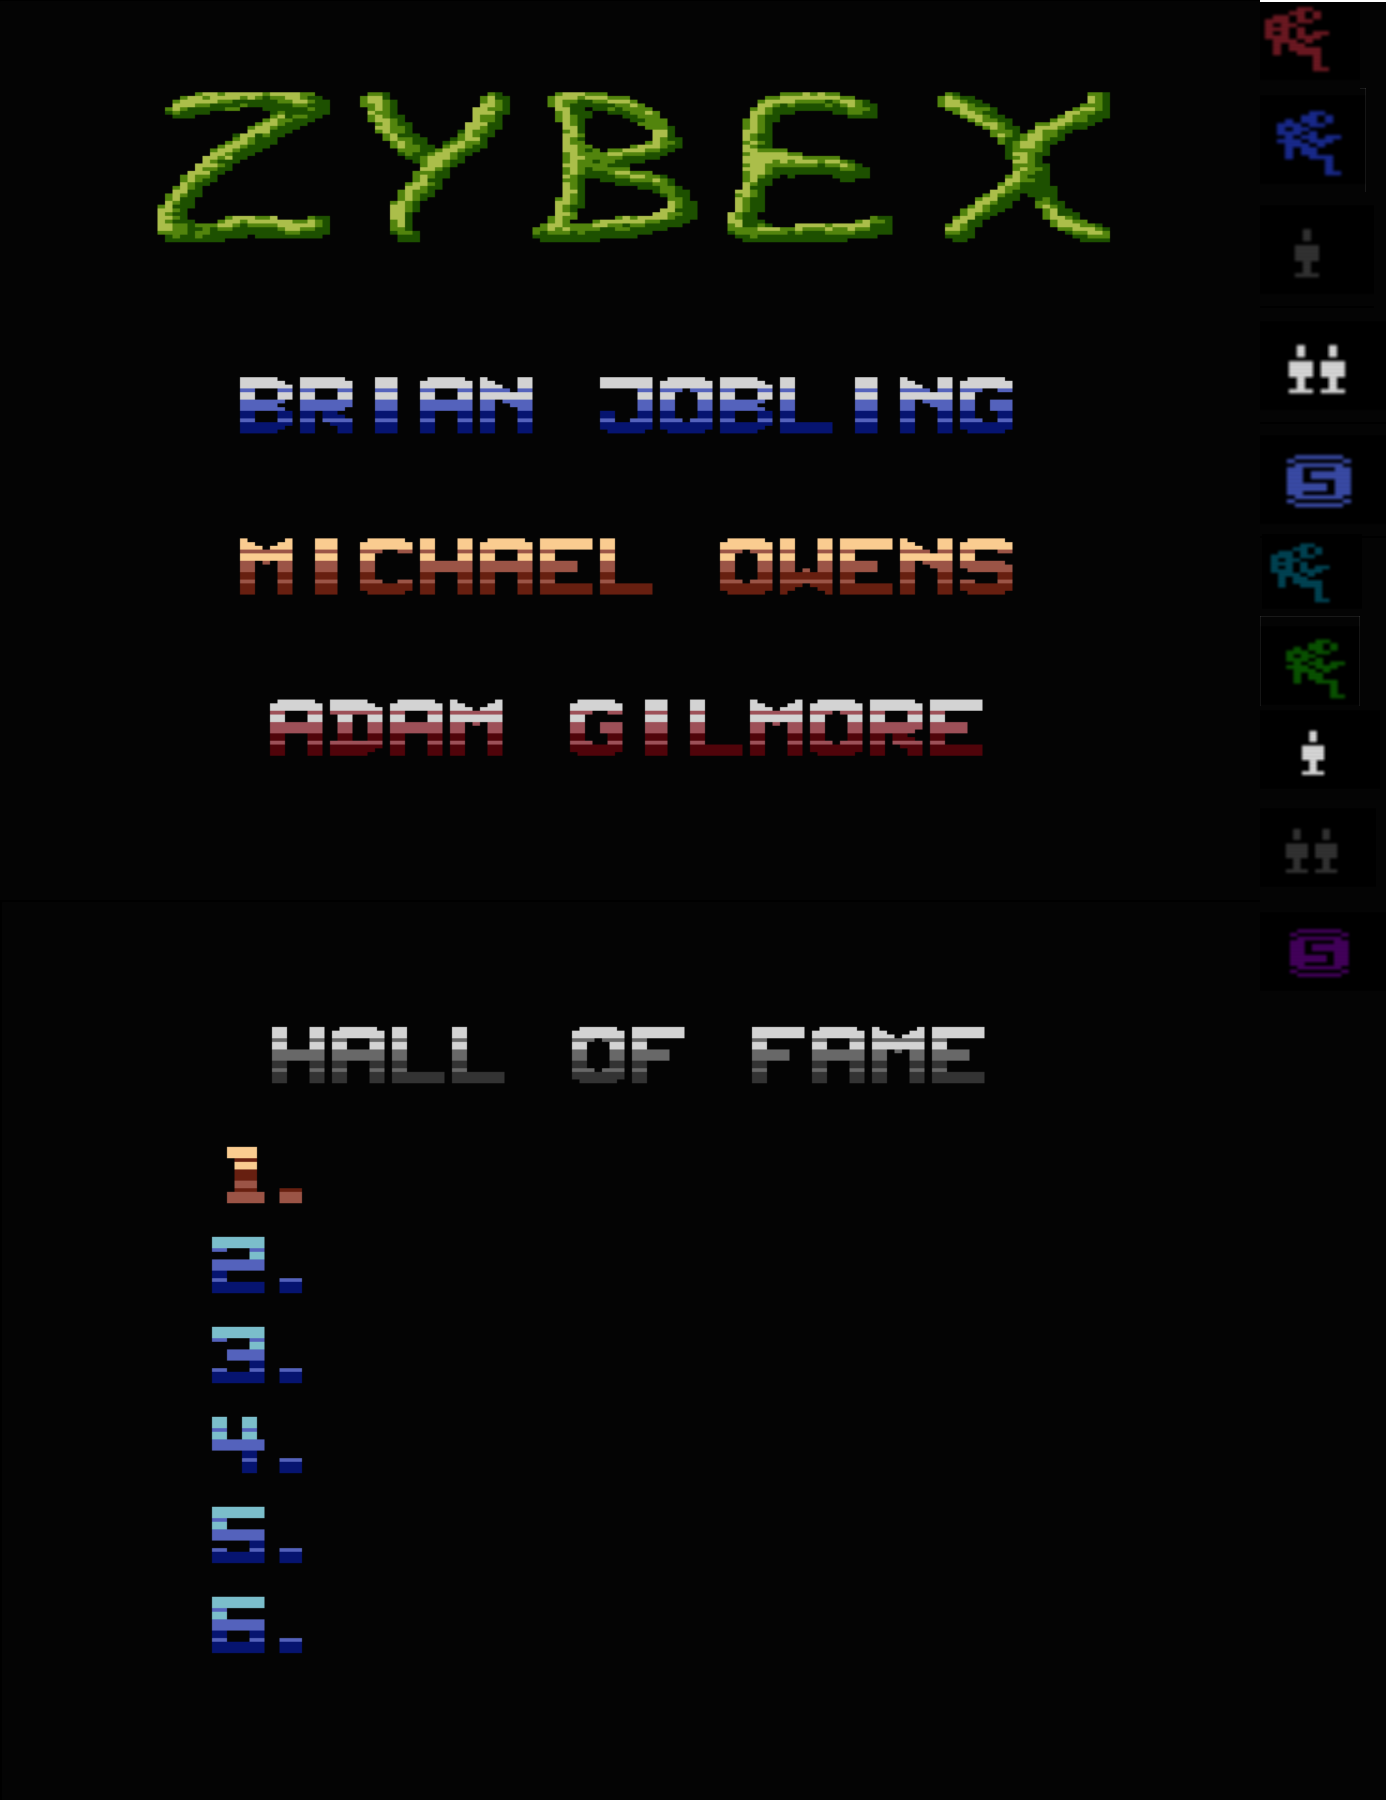
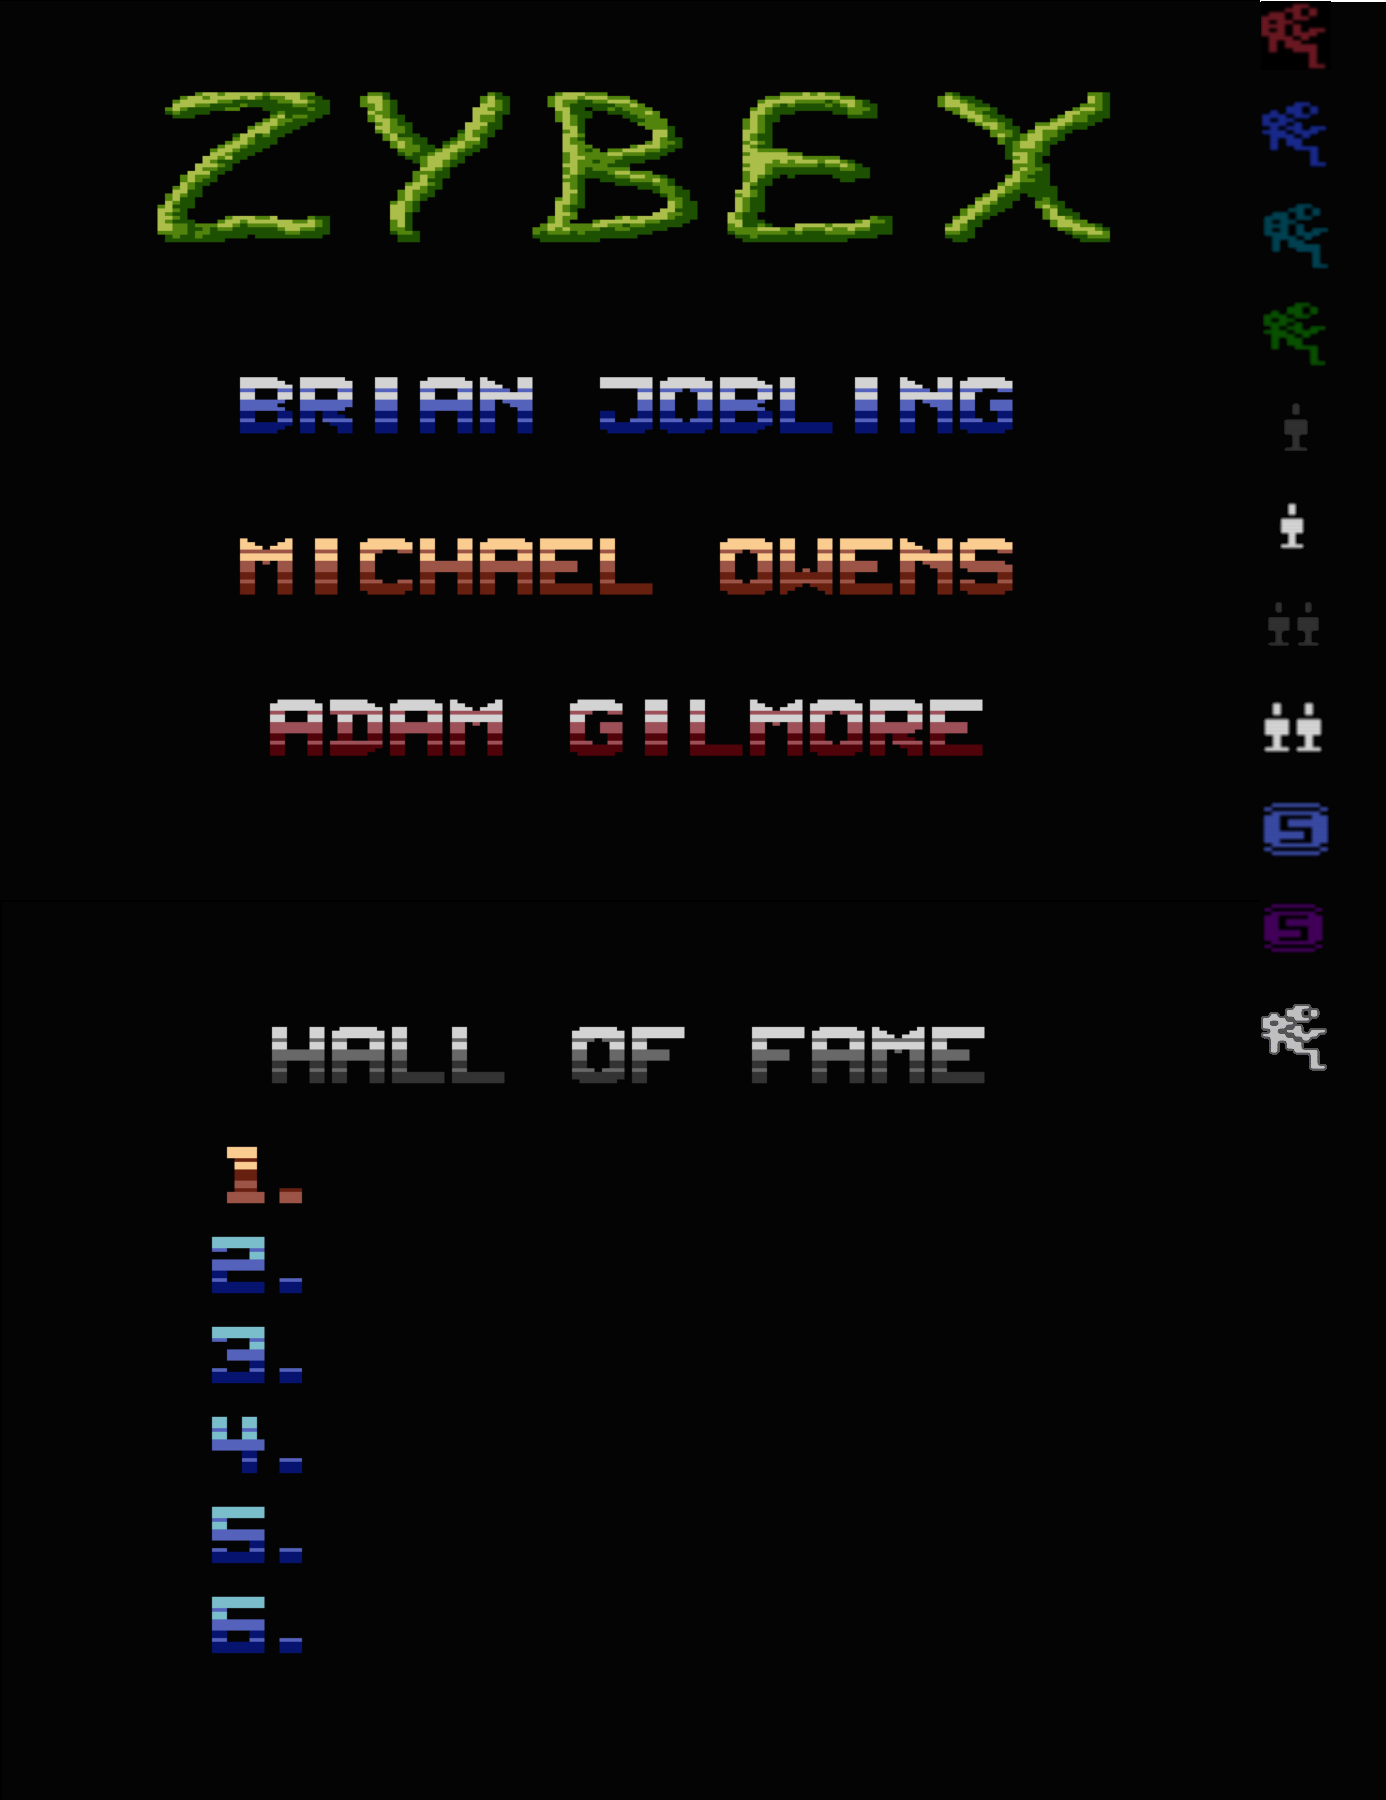
Added animated bottom panel to menu

Changed region(s): [[0.8997, 0.0, 0.9928, 0.5911]]

diff --git a/src/components/layouts/menu/BottomPanel.ts b/src/components/layouts/menu/BottomPanel.ts
@@ -1,0 +1,79 @@
+import { CANVAS_WIDTH } from "../../../constants";
+import { Renderable } from "../../interfaces";
+import { CanvasElement } from "../../rendering/interfaces";
+import Renderer from "../../rendering/Renderer";
+import {
+  BOTTOM_ANIM_MAX_OFFSET,
+  BOTTOM_ANIM_STEP,
+  BOTTOM_ANIM_MIN_OFFSET,
+} from "./constants";
+import MultiPlayerIco from "./layout_items/MultiPlayerIco";
+import PlayerAvatar from "./layout_items/PlayerAvatar";
+import SinglePlayerIco from "./layout_items/SinglePlayerIco";
+import StartIco from "./layout_items/StartIco";
+import STartIco from "./layout_items/StartIco";
+
+export default class BottomPanel implements Renderable {
+  elementOffset: number;
+
+  // items
+  avatar1: PlayerAvatar;
+  avatar2: PlayerAvatar;
+  singleIco: SinglePlayerIco;
+  multiIco: MultiPlayerIco;
+  startIco: STartIco;
+
+  constructor() {
+    this.avatar1 = new PlayerAvatar();
+    this.avatar2 = new PlayerAvatar();
+    this.singleIco = new SinglePlayerIco();
+    this.multiIco = new MultiPlayerIco();
+    this.startIco = new StartIco();
+  }
+
+  public get canvasElements(): CanvasElement[] {
+    return [
+      this.avatar1,
+      this.singleIco,
+      this.startIco,
+      this.multiIco,
+      this.avatar2,
+    ];
+  }
+
+  playInitAnim() {
+    //start interval playing animation
+    this.elementOffset = BOTTOM_ANIM_MIN_OFFSET;
+  }
+
+  animTick() {
+    // end loop if should
+    if (this.elementOffset >= BOTTOM_ANIM_MAX_OFFSET) {
+      return;
+    }
+
+    // chage elements position
+    const elemsCount = this.canvasElements.length;
+    const middleIdx = elemsCount / 2 - 0.5;
+    const middlePos = CANVAS_WIDTH / 2;
+    for (let idx = 0; idx < elemsCount; idx++) {
+      const element = this.canvasElements[idx];
+      const sign = Math.sign(idx - middleIdx);
+      const maxPos =
+        middlePos + BOTTOM_ANIM_MAX_OFFSET * (idx - middleIdx);
+      const actualPos = middlePos + this.elementOffset*middleIdx * sign;
+      element.position.x =
+        sign < 0 ? Math.max(maxPos, actualPos) : Math.min(maxPos, actualPos);
+    }
+
+    // increment elements offset
+    this.elementOffset += BOTTOM_ANIM_STEP;
+  }
+
+  render() {
+    this.animTick();
+    for (const item of this.canvasElements) {
+      Renderer.render(item);
+    }
+  }
+}

diff --git a/src/components/layouts/menu/Menu.ts b/src/components/layouts/menu/Menu.ts
@@ -1,5 +1,6 @@
 import Renderer from "../../rendering/Renderer";
 import { Layout } from "../interfaces";
+import BottomPanel from "./BottomPanel";
 import { CHANGE_LAYOUT_TIMEOUT } from "./constants";
 import MenuBackground from "./layout_items/MenuBackground";
 
@@ -9,6 +10,8 @@ export default class Menu implements Layout {
     actualPage: number;
     changePageInterval: NodeJS.Timer;
 
+    // sub items
+    bottomPanel: BottomPanel
     // items
     background: MenuBackground;
 
@@ -16,11 +19,13 @@ export default class Menu implements Layout {
         this.changeLayout = changeLayout;
         this.actualPage = 0;
 
+        this.bottomPanel = new BottomPanel();
         this.background = new MenuBackground();
     }
 
     render() {
         Renderer.render(this.background);
+        this.bottomPanel.render();
     }
 
     onShow() {
@@ -29,6 +34,7 @@ export default class Menu implements Layout {
             () => this.changePage(),
             CHANGE_LAYOUT_TIMEOUT
         );
+        this.changePage()
     }
 
     onHide() {
@@ -38,5 +44,6 @@ export default class Menu implements Layout {
     changePage() {
         this.actualPage = this.actualPage == 0 ? 1 : 0;
         this.background.changeTexture(this.actualPage);
+        this.bottomPanel.playInitAnim();
     }
 }

diff --git a/src/components/layouts/menu/layout_items/PlayerAvatar.ts b/src/components/layouts/menu/layout_items/PlayerAvatar.ts
@@ -1,0 +1,20 @@
+import { CANVAS_HEIGHT, CANVAS_WIDTH } from "../../../../constants";
+import { CanvasElement } from "../../../rendering/interfaces";
+import { AVATAR_COLORS } from "../constants";
+import BottomPanelEl from "./BottomPanelEl";
+
+export default class PlayerAvatar extends BottomPanelEl {
+    texture_offset = {
+        x: 1261,
+        y: AVATAR_COLORS.red,
+    };
+
+    size = {
+        width: 67,
+        height: 70,
+    };
+
+    changeColor(color: AVATAR_COLORS) {
+        this.texture_offset.y = color;
+    }
+}

diff --git a/src/components/layouts/menu/constants.ts b/src/components/layouts/menu/constants.ts
@@ -1,1 +1,18 @@
+import { CANVAS_HEIGHT, CANVAS_WIDTH } from "../../../constants";
+
 export const CHANGE_LAYOUT_TIMEOUT = 2500;
+
+export enum AVATAR_COLORS {
+    red = 0,
+    blue = 100,
+    aqua = 200,
+    green = 300,
+    white = 1000,
+}
+
+export const BOTTOM_PANEL_Y = CANVAS_HEIGHT/7*6;
+export const BOTTOM_MENU_RADIUS = CANVAS_WIDTH/4;
+
+export const BOTTOM_ANIM_MIN_OFFSET = 20;
+export const BOTTOM_ANIM_STEP = 5;
+export const BOTTOM_ANIM_MAX_OFFSET = 120;

diff --git a/src/components/layouts/menu/layout_items/BottomPanelEl.ts b/src/components/layouts/menu/layout_items/BottomPanelEl.ts
@@ -1,0 +1,21 @@
+import { CanvasElement } from "../../../rendering/interfaces";
+import { BOTTOM_PANEL_Y } from "../constants";
+
+export default class BottomPanelEl implements CanvasElement {
+    position = {
+        x: 0,
+        y: BOTTOM_PANEL_Y,
+    };
+
+    texture_offset = {
+        x: 0,
+        y: 0,
+    };
+
+    size = {
+        width: 0,
+        height: 0,
+    };
+
+    texture = "menu_sprite";
+}

diff --git a/src/components/layouts/menu/layout_items/StartIco.ts b/src/components/layouts/menu/layout_items/StartIco.ts
@@ -1,0 +1,19 @@
+import { CanvasElement } from "../../../rendering/interfaces";
+import BottomPanelEl from "./BottomPanelEl";
+
+export default class StartIco extends BottomPanelEl {
+
+    texture_offset = {
+        x: 1261,
+        y: 800,
+    };
+
+    size = {
+        width: 75,
+        height: 60,
+    };
+
+    changeFocus(value: boolean) {
+        this.texture_offset.y = value ? 900 : 800;
+    }
+}

diff --git a/src/components/layouts/menu/layout_items/SinglePlayerIco.ts b/src/components/layouts/menu/layout_items/SinglePlayerIco.ts
@@ -1,0 +1,17 @@
+import BottomPanelEl from "./BottomPanelEl";
+
+export default class SinglePlayerIco extends BottomPanelEl {
+    texture_offset = {
+        x: 1261,
+        y: 400,
+    };
+
+    size = {
+        width: 70,
+        height: 60,
+    };
+
+    changeFocus(value: boolean) {
+        this.texture_offset.y = value ? 500 : 400;
+    }
+}

diff --git a/src/components/layouts/menu/layout_items/MultiPlayerIco.ts b/src/components/layouts/menu/layout_items/MultiPlayerIco.ts
@@ -1,0 +1,12 @@
+import SinglePlayerIco from "./SinglePlayerIco";
+
+export default class MultiPlayerIco extends SinglePlayerIco {
+    texture_offset = {
+        x: 1261,
+        y: 600,
+    };
+
+    changeFocus(value: boolean) {
+        this.texture_offset.y = value ? 700 : 600;
+    }
+}

diff --git a/src/components/layouts/menu/layout_items/MenuBackground.ts b/src/components/layouts/menu/layout_items/MenuBackground.ts
@@ -20,6 +20,6 @@ export default class MenuBackground implements CanvasElement {
     texture = "menu_sprite";
 
     changeTexture(pageNumber: number) {
-        this.texture_offset.y = pageNumber * 960;
+        this.texture_offset.y = pageNumber * CANVAS_HEIGHT;
     }
 }
